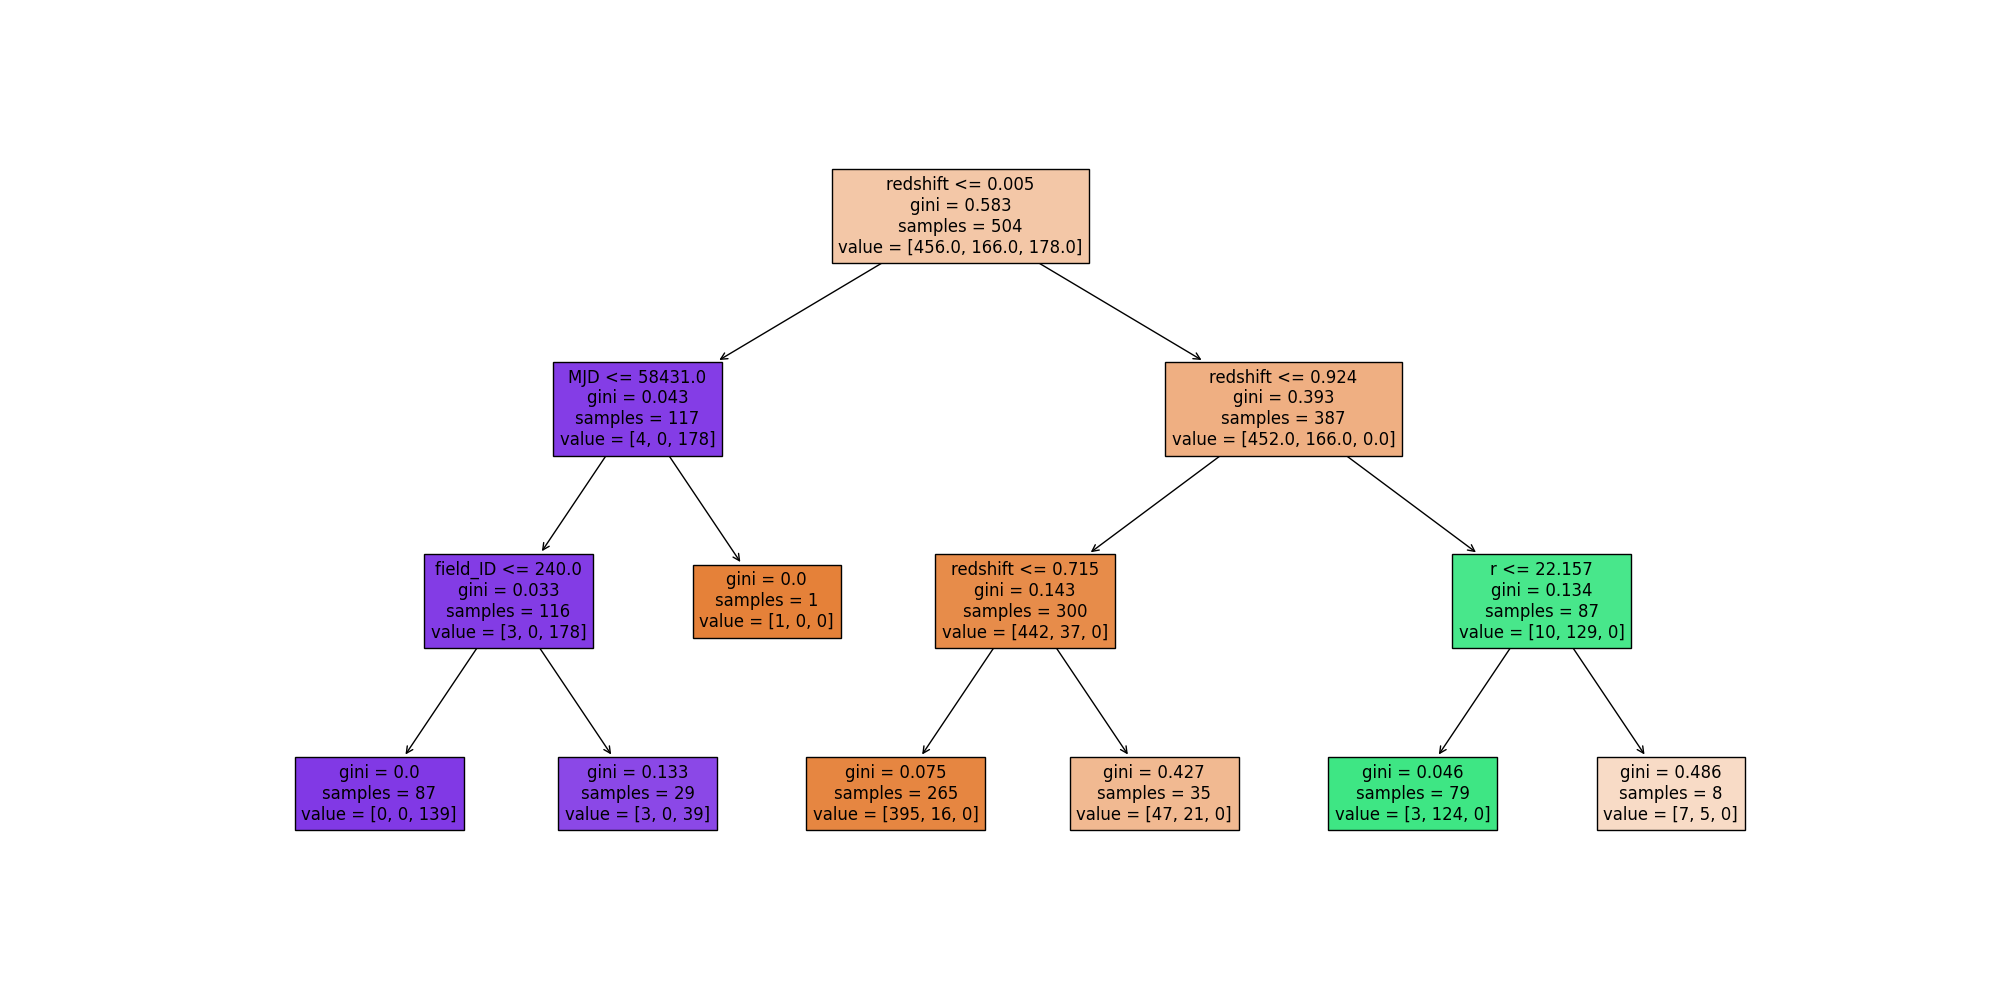
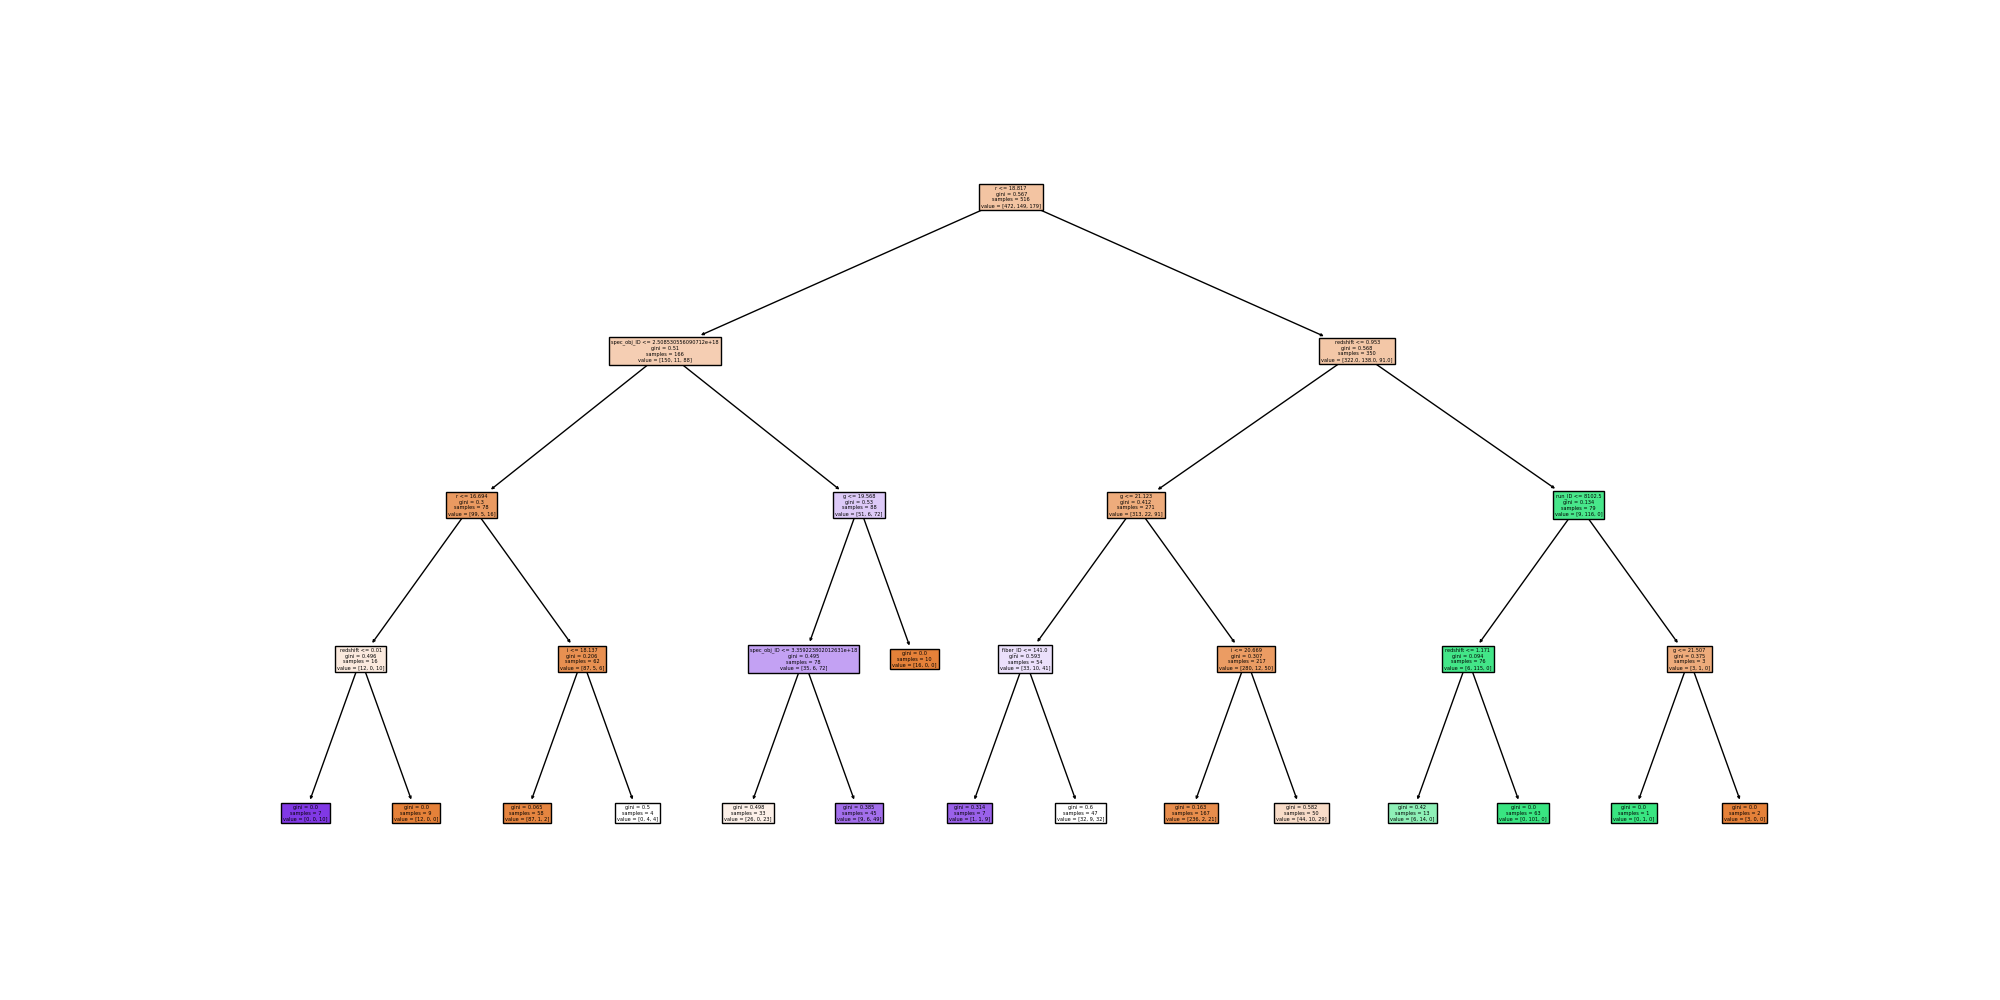
streamlit plot

diff --git a/streamlit/demo.py b/streamlit/demo.py
@@ -47,6 +47,7 @@ elif selected == 'Decision Tree':
         from treeModels import DecisionTreeClassifier
         from treeModels.decision_algorithms import DecisionAlgorithm
         from sklearn.metrics import accuracy_score, precision_score, recall_score, f1_score
+        from plot.plot_tree import PlotTree
 
         df = pd.read_csv('../star_classification.csv')
         df = df.assign(quality = [str(x) for x in df['cam_col']]).sample(1000)
@@ -61,7 +62,7 @@ elif selected == 'Decision Tree':
 
 
 
-    max_depth_1 = st.slider('Max Depth', min_value=1, max_value=10, value=3, help='The maximum depth of the tree')
+    max_depth_1 = st.slider('Max Depth', min_value=1, max_value=10, value=4, help='The maximum depth of the tree')
     min_samples_split_1 = st.slider('Min Samples Split', min_value=2, max_value=10, value=2, help='The minimum number of samples required to split an internal node')
     min_samples_leaf_1 = st.slider('Min Samples Leaf', min_value=1, max_value=10, value=1, help='The minimum number of samples required to be at a leaf node')
     min_impurity_decrease_1 = st.slider('Min Impurity Decrease', min_value=0.0, max_value=0.5, value=0.0, help='A node will be split if this split induces a decrease of the impurity greater than or equal to this value')    
@@ -90,6 +91,8 @@ elif selected == 'Decision Tree':
         st.write('Precision:', round(precision, 3))
         st.write('Recall:', round(recall, 3))
         st.write('F1:', round(f1, 3))
+        
+        PlotTree(clf.tree).show()
 
 
     st.write('---')
@@ -117,7 +120,7 @@ elif selected == 'Decision Tree':
 
 
 
-    max_depth = st.slider('Max Depth 2', min_value=1, max_value=10, value=3, help='The maximum depth of the tree')
+    max_depth = st.slider('Max Depth 2', min_value=1, max_value=10, value=4, help='The maximum depth of the tree')
     min_samples_split = st.slider('Min Samples Split 2', min_value=2, max_value=10, value=2, help='The minimum number of samples required to split an internal node')
     min_samples_leaf = st.slider('Min Samples Leaf 2', min_value=1, max_value=10, value=1, help='The minimum number of samples required to be at a leaf node')
     min_impurity_decrease = st.slider('Min Impurity Decrease 2', min_value=0.0, max_value=0.5, value=0.0, help='A node will be split if this split induces a decrease of the impurity greater than or equal to this value')    
@@ -178,9 +181,9 @@ elif selected == 'Random Forest':
         clf = RandomForestClassifier()
                                    
 
-    n_estimators_1 = st.slider('N Estimators 1', min_value=1, max_value=100, value=100, help='The number of trees in the forest')
-    max_features_1 = st.selectbox('Max Features 1', ['sqrt', 'log2', 'None'], help='The number of features to consider when looking for the best split')
-    max_depth_1 = st.slider('Max Depth 1', min_value=1, max_value=10, value=3, help='The maximum depth of the tree')
+    n_estimators_1 = st.slider('N Estimators 1', min_value=1, max_value=100, value=10, help='The number of trees in the forest')
+    max_features_1 = st.selectbox('Max Features 1', [ 'None', 'sqrt', 'log2'], help='The number of features to consider when looking for the best split')
+    max_depth_1 = st.slider('Max Depth 1', min_value=1, max_value=10, value=4, help='The maximum depth of the tree')
     min_samples_split_1 = st.slider('Min Samples Split 1', min_value=2, max_value=10, value=2, help='The minimum number of samples required to split an internal node')
     min_samples_leaf_1 = st.slider('Min Samples Leaf 1', min_value=1, max_value=10, value=1, help='The minimum number of samples required to be at a leaf node')
     min_impurity_decrease_1 = st.slider('Min Impurity Decrease 1', min_value=0.0, max_value=0.5, value=0.0, help='A node will be split if this split induces a decrease of the impurity greater than or equal to this value')
@@ -238,7 +241,7 @@ elif selected == 'Random Forest':
     
     n_estimators = st.slider('N Estimators', min_value=1, max_value=100, value=100, help='The number of trees in the forest')
     max_feature = st.selectbox('Max Features', ['sqrt', 'log2', 'None'], help='The number of features to consider when looking for the best split')
-    max_depth = st.slider('Max Depth', min_value=1, max_value=10, value=3, help='The maximum depth of the tree')
+    max_depth = st.slider('Max Depth', min_value=1, max_value=10, value=4, help='The maximum depth of the tree')
     min_samples_split = st.slider('Min Samples Split', min_value=2, max_value=10, value=2, help='The minimum number of samples required to split an internal node')
     min_samples_leaf = st.slider('Min Samples Leaf', min_value=1, max_value=10, value=1, help='The minimum number of samples required to be at a leaf node')
     min_impurity_decrease = st.slider('Min Impurity Decrease', min_value=0.0, max_value=0.5, value=0.0, help='A node will be split if this split induces a decrease of the impurity greater than or equal to this value')
